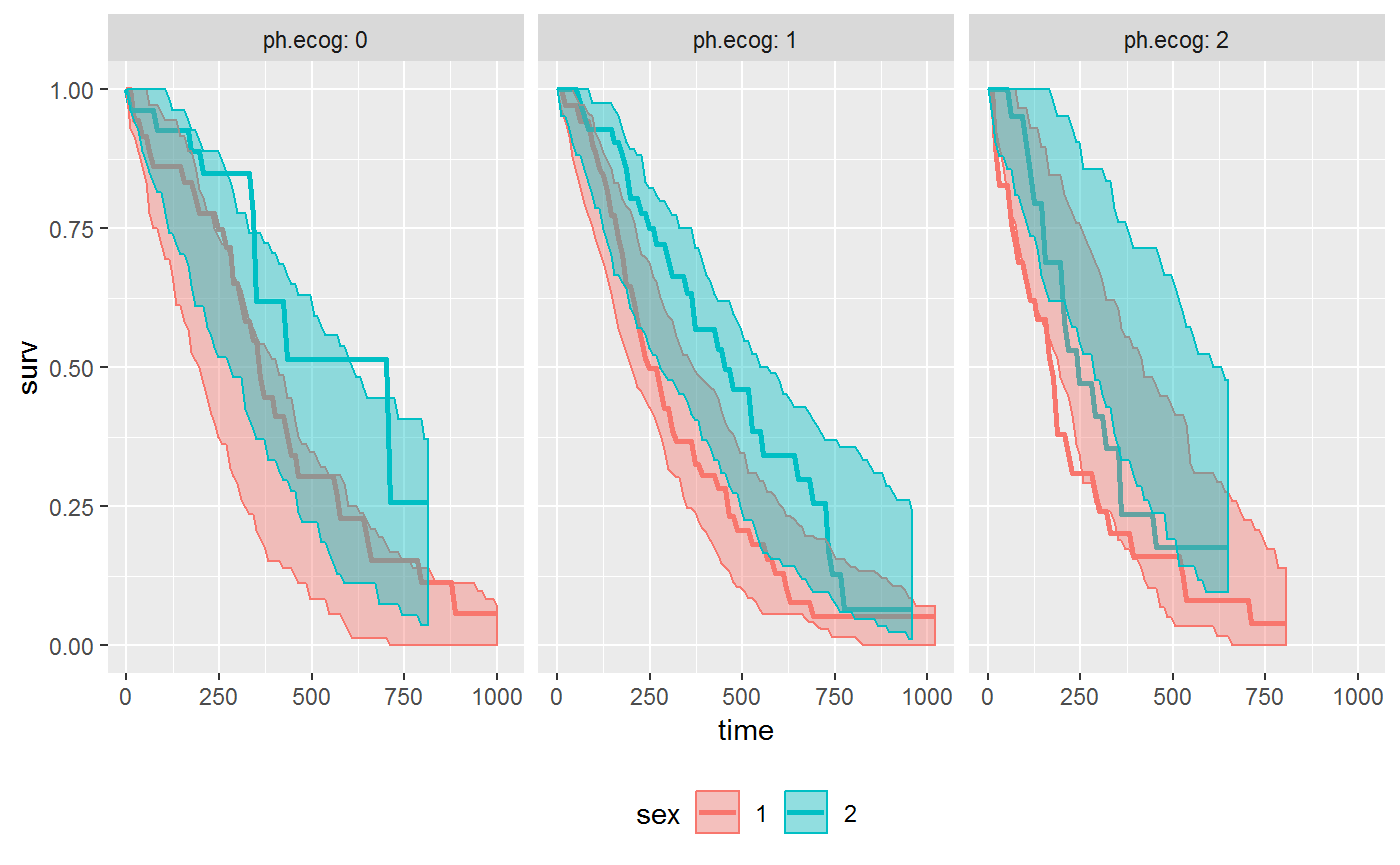
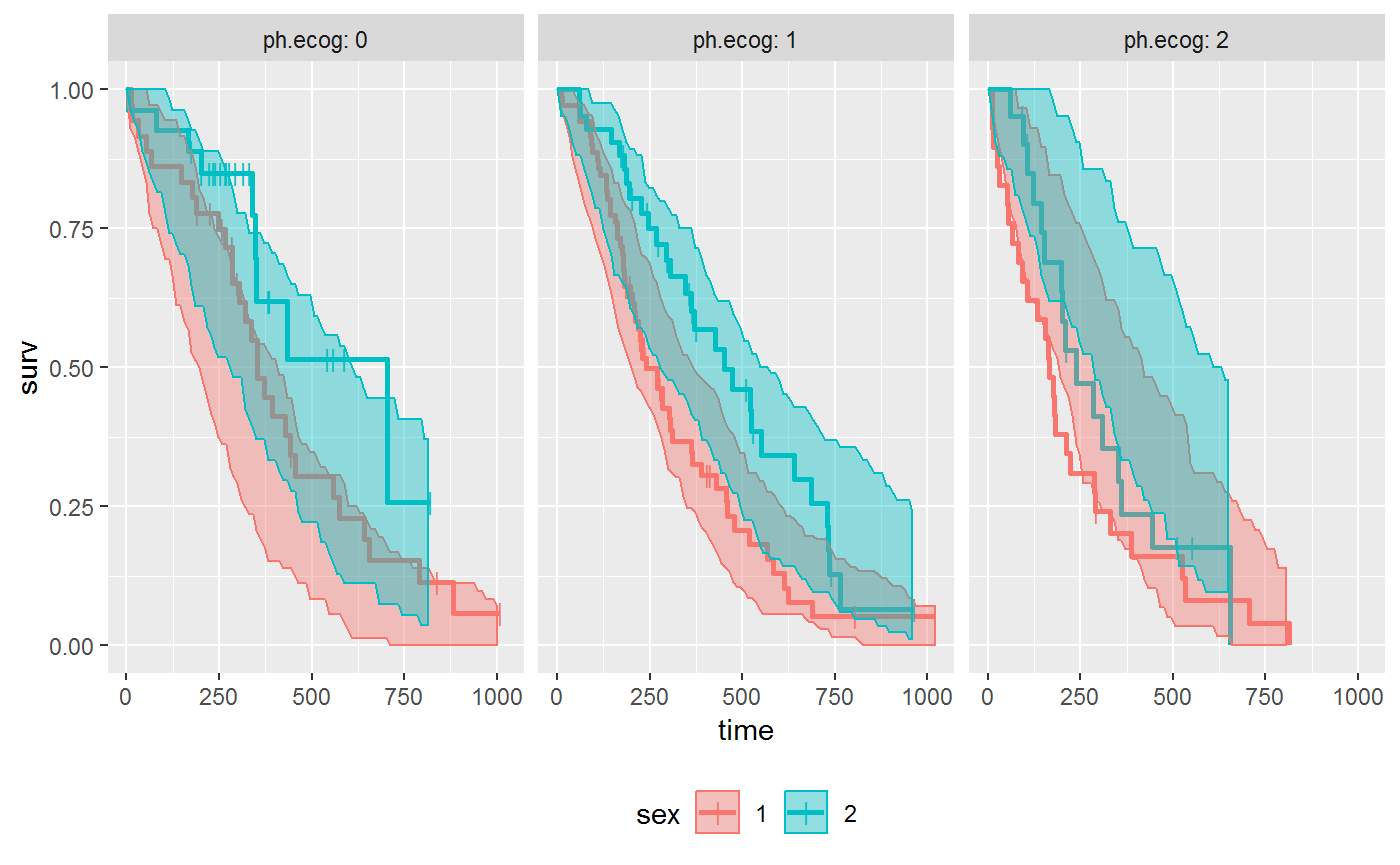
Correct observed K-M curve

diff --git a/docs/reference/survparamsim.html b/docs/reference/survparamsim.html
@@ -64,7 +64,7 @@ generated with survreg function." />
       </button>
       <span class="navbar-brand">
         <a class="navbar-link" href="../index.html">survParamSim</a>
-        <span class="version label label-default" data-toggle="tooltip" data-placement="bottom" title="Released version">0.0.15</span>
+        <span class="version label label-default" data-toggle="tooltip" data-placement="bottom" title="Released version">0.0.16</span>
       </span>
     </div>
 

diff --git a/docs/reference/calc_hr_pi.html b/docs/reference/calc_hr_pi.html
@@ -63,7 +63,7 @@
       </button>
       <span class="navbar-brand">
         <a class="navbar-link" href="../index.html">survParamSim</a>
-        <span class="version label label-default" data-toggle="tooltip" data-placement="bottom" title="Released version">0.0.15</span>
+        <span class="version label label-default" data-toggle="tooltip" data-placement="bottom" title="Released version">0.0.16</span>
       </span>
     </div>
 

diff --git a/docs/reference/calc_km_pi.html b/docs/reference/calc_km_pi.html
@@ -63,7 +63,7 @@
       </button>
       <span class="navbar-brand">
         <a class="navbar-link" href="../index.html">survParamSim</a>
-        <span class="version label label-default" data-toggle="tooltip" data-placement="bottom" title="Released version">0.0.15</span>
+        <span class="version label label-default" data-toggle="tooltip" data-placement="bottom" title="Released version">0.0.16</span>
       </span>
     </div>
 

diff --git a/docs/reference/extractrawsim.html b/docs/reference/extractrawsim.html
@@ -63,7 +63,7 @@
       </button>
       <span class="navbar-brand">
         <a class="navbar-link" href="../index.html">survParamSim</a>
-        <span class="version label label-default" data-toggle="tooltip" data-placement="bottom" title="Released version">0.0.15</span>
+        <span class="version label label-default" data-toggle="tooltip" data-placement="bottom" title="Released version">0.0.16</span>
       </span>
     </div>
 

diff --git a/docs/reference/index.html b/docs/reference/index.html
@@ -60,7 +60,7 @@
       </button>
       <span class="navbar-brand">
         <a class="navbar-link" href="../index.html">survParamSim</a>
-        <span class="version label label-default" data-toggle="tooltip" data-placement="bottom" title="Released version">0.0.15</span>
+        <span class="version label label-default" data-toggle="tooltip" data-placement="bottom" title="Released version">0.0.16</span>
       </span>
     </div>
 

diff --git a/docs/reference/pipe.html b/docs/reference/pipe.html
@@ -63,7 +63,7 @@
       </button>
       <span class="navbar-brand">
         <a class="navbar-link" href="../index.html">survParamSim</a>
-        <span class="version label label-default" data-toggle="tooltip" data-placement="bottom" title="Released version">0.0.15</span>
+        <span class="version label label-default" data-toggle="tooltip" data-placement="bottom" title="Released version">0.0.16</span>
       </span>
     </div>
 

diff --git a/docs/reference/plot_hr_pi.html b/docs/reference/plot_hr_pi.html
@@ -63,7 +63,7 @@
       </button>
       <span class="navbar-brand">
         <a class="navbar-link" href="../index.html">survParamSim</a>
-        <span class="version label label-default" data-toggle="tooltip" data-placement="bottom" title="Released version">0.0.15</span>
+        <span class="version label label-default" data-toggle="tooltip" data-placement="bottom" title="Released version">0.0.16</span>
       </span>
     </div>
 

diff --git a/docs/reference/plot_km_pi.html b/docs/reference/plot_km_pi.html
@@ -63,7 +63,7 @@
       </button>
       <span class="navbar-brand">
         <a class="navbar-link" href="../index.html">survParamSim</a>
-        <span class="version label label-default" data-toggle="tooltip" data-placement="bottom" title="Released version">0.0.15</span>
+        <span class="version label label-default" data-toggle="tooltip" data-placement="bottom" title="Released version">0.0.16</span>
       </span>
     </div>
 

diff --git a/docs/reference/survparamsim-methods.html b/docs/reference/survparamsim-methods.html
@@ -63,7 +63,7 @@
       </button>
       <span class="navbar-brand">
         <a class="navbar-link" href="../index.html">survParamSim</a>
-        <span class="version label label-default" data-toggle="tooltip" data-placement="bottom" title="Released version">0.0.15</span>
+        <span class="version label label-default" data-toggle="tooltip" data-placement="bottom" title="Released version">0.0.16</span>
       </span>
     </div>
 

diff --git a/docs/authors.html b/docs/authors.html
@@ -60,7 +60,7 @@
       </button>
       <span class="navbar-brand">
         <a class="navbar-link" href="index.html">survParamSim</a>
-        <span class="version label label-default" data-toggle="tooltip" data-placement="bottom" title="Released version">0.0.15</span>
+        <span class="version label label-default" data-toggle="tooltip" data-placement="bottom" title="Released version">0.0.16</span>
       </span>
     </div>
 

diff --git a/docs/index.html b/docs/index.html
@@ -33,7 +33,7 @@
       </button>
       <span class="navbar-brand">
         <a class="navbar-link" href="index.html">survParamSim</a>
-        <span class="version label label-default" data-toggle="tooltip" data-placement="bottom" title="Released version">0.0.15</span>
+        <span class="version label label-default" data-toggle="tooltip" data-placement="bottom" title="Released version">0.0.16</span>
       </span>
     </div>
 
